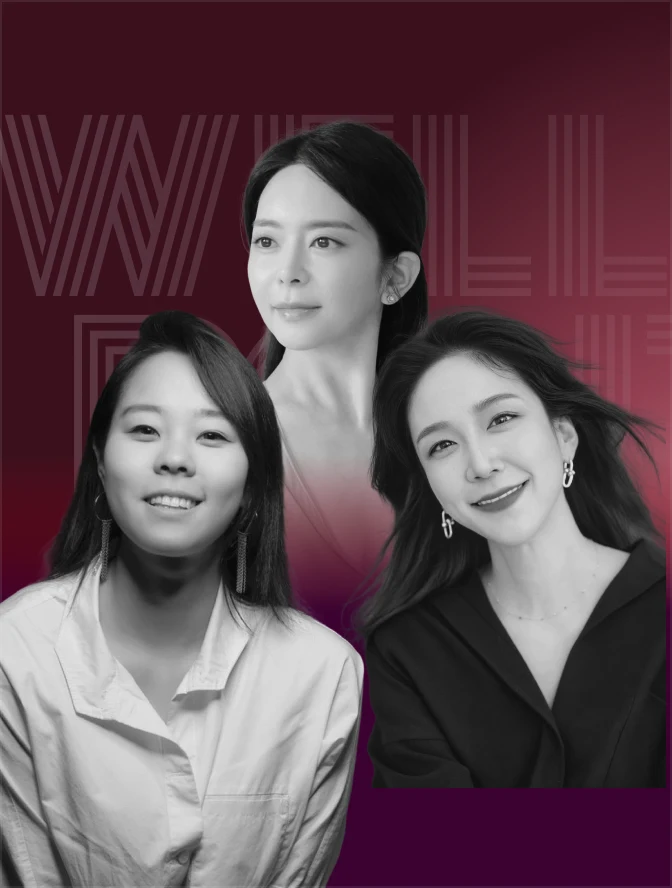
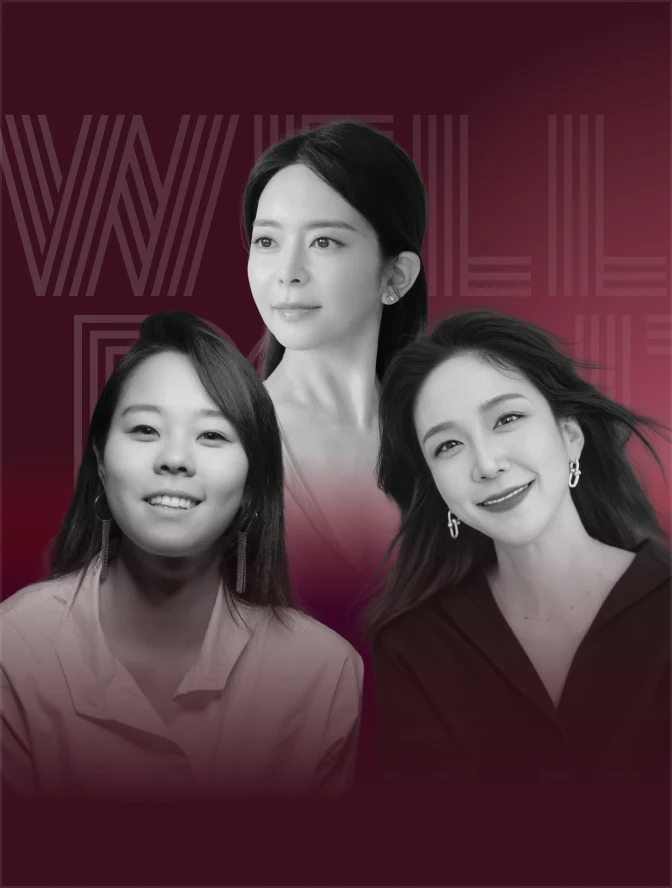
라인업: 웰니스 키 플레이어(정희진) 카드 피그마 수정본 반영
Claude-Session: https://claude.ai/code/session_01R7psang7KMHjkciXLU3LV5

Changed region(s): [[0.0, 0.3649, 1.0, 1.0], [0.625, 0.6385, 0.6562, 0.6689], [0.5938, 0.7601, 0.625, 0.7905]]

diff --git a/index.html b/index.html
@@ -976,7 +976,7 @@ try{ if('scrollRestoration' in history) history.scrollRestoration='manual'; }cat
   const cardHTML=(r,clone)=>{ const ti=clone?' tabindex="-1" aria-hidden="true"':'';
     if(r[0]==='soon') return `<a class="l-card soon" href="${BOOKL}" target="_blank" rel="noopener"${ti}><div class="l-top"><span>LINEUP</span><b>COMING SOON</b></div><div class="soon-mid"><svg viewBox="0 0 24 24" width="44" height="44" aria-hidden="true"><path d="M12 1.5C12.7 7.4 16.6 11.3 22.5 12C16.6 12.7 12.7 16.6 12 22.5C11.3 16.6 7.4 12.7 1.5 12C7.4 11.3 11.3 7.4 12 1.5Z" fill="#fff"/></svg><h3>더 많은 연사가<br>곧 공개됩니다</h3></div><div class="l-bottom"><span class="l-book">롱진콘 신청하기 ↗</span></div></a>`;
     const [f,n,d,c,dt,t,[x,y,w]]=r;
-    return `<a class="l-card ${t}${r[8]?' duo':''}${n.includes(' · ')?' multi':''}" href="${f.startsWith('smcc_')?'#program':BOOKL}"${f.startsWith('smcc_')?'':' target="_blank" rel="noopener"'}${ti}><div class="l-type" aria-hidden="true"><span>${WORD[f][0]}</span><span>${WORD[f][1]}</span></div>${r[8]?`<img src="img/${r[8][0]}.webp?v=3" alt="" loading="lazy" style="left:${r[8][1]}%;top:${r[8][2]}%;width:${r[8][3]}%;filter:none">`:''}<img src="img/${f}.webp${f==='ceo_lu'?'?v=7':f.startsWith('smcc_')?'?v=3':(f==='trio_lu')?'?v=7':(f==='lee_trio'||f==='khs_duo'||f==='noh_duo')?'?v=7':(f==='woo_duo')?'?v=7':''}" alt="${clone?'':n}" loading="lazy" style="left:${x}%;top:${y}%;width:${w}%${(f==='ceo_lu'||f==='trio_lu'||f==='woo_duo'||f==='lee_trio'||f==='khs_duo'||f==='noh_duo'||f.startsWith('smcc_'))?';filter:none':''}">${r[8]?'<div style="position:absolute;left:-5.95%;top:66.89%;width:108.33%;height:36.71%;background:linear-gradient(rgba(14,46,90,0),#0E2E5A);pointer-events:none"></div>':''}${(f==='ceo_lu'||f==='trio_lu'||f==='woo_duo'||f==='lee_trio'||f==='khs_duo'||f==='noh_duo'||f.startsWith('smcc_'))?'':'<div class="scrim"></div>'}<div class="l-top"><span>${c}</span><b>${dt}</b></div><div class="l-bottom"><h3>${n}</h3><p>${d}</p><span class="l-book">${f.startsWith('smcc_')?'SMCC 별도 모집':'예매하기 ↗'}</span></div></a>`; };
+    return `<a class="l-card ${t}${r[8]?' duo':''}${n.includes(' · ')?' multi':''}" href="${f.startsWith('smcc_')?'#program':BOOKL}"${f.startsWith('smcc_')?'':' target="_blank" rel="noopener"'}${ti}><div class="l-type" aria-hidden="true"><span>${WORD[f][0]}</span><span>${WORD[f][1]}</span></div>${r[8]?`<img src="img/${r[8][0]}.webp?v=3" alt="" loading="lazy" style="left:${r[8][1]}%;top:${r[8][2]}%;width:${r[8][3]}%;filter:none">`:''}<img src="img/${f}.webp${f==='ceo_lu'?'?v=7':f.startsWith('smcc_')?'?v=3':(f==='trio_lu')?'?v=8':(f==='lee_trio'||f==='khs_duo'||f==='noh_duo')?'?v=7':(f==='woo_duo')?'?v=7':''}" alt="${clone?'':n}" loading="lazy" style="left:${x}%;top:${y}%;width:${w}%${(f==='ceo_lu'||f==='trio_lu'||f==='woo_duo'||f==='lee_trio'||f==='khs_duo'||f==='noh_duo'||f.startsWith('smcc_'))?';filter:none':''}">${r[8]?'<div style="position:absolute;left:-5.95%;top:66.89%;width:108.33%;height:36.71%;background:linear-gradient(rgba(14,46,90,0),#0E2E5A);pointer-events:none"></div>':''}${(f==='ceo_lu'||f==='trio_lu'||f==='woo_duo'||f==='lee_trio'||f==='khs_duo'||f==='noh_duo'||f.startsWith('smcc_'))?'':'<div class="scrim"></div>'}<div class="l-top"><span>${c}</span><b>${dt}</b></div><div class="l-bottom"><h3>${n}</h3><p>${d}</p><span class="l-book">${f.startsWith('smcc_')?'SMCC 별도 모집':'예매하기 ↗'}</span></div></a>`; };
   // 무한 루프: 같은 카드 세트를 앞·뒤로 한 벌씩 더 붙이고, 가운데 세트를 벗어나면 같은 위치의 가운데 카드로 몰래 점프
   rail.innerHTML=LV.map(c=>cardHTML(c,1)).join('')+LV.map(c=>cardHTML(c,0)).join('')+LV.map(c=>cardHTML(c,1)).join('');
   const cards=()=>rail.querySelectorAll('.l-card');
